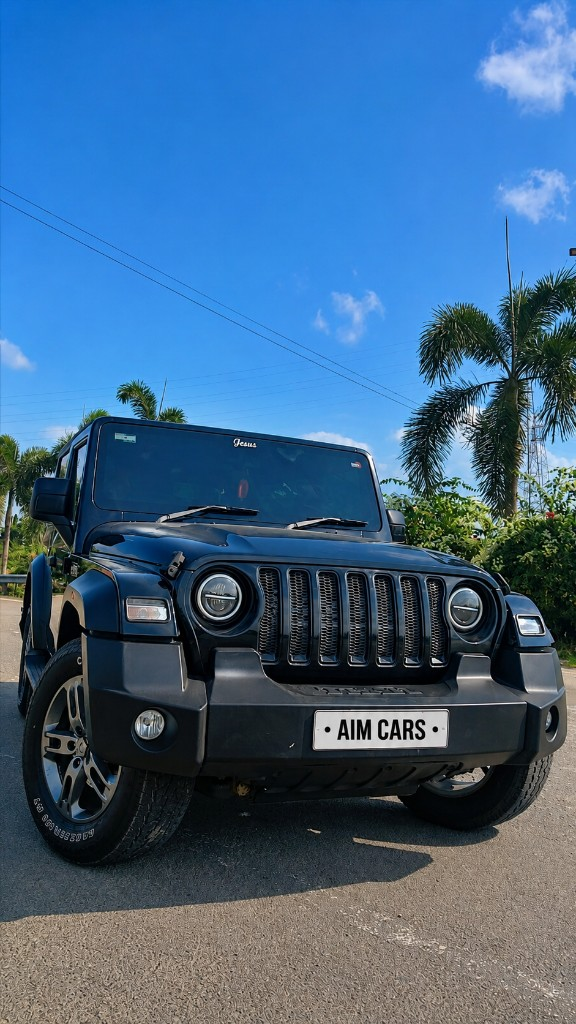
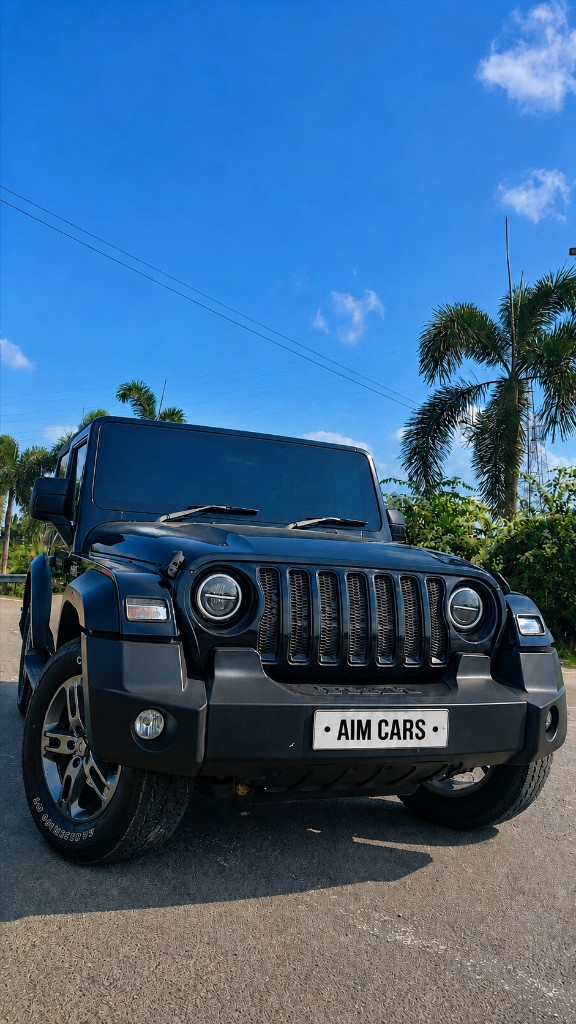
Updated website design and content

diff --git a/src/routes/index.tsx b/src/routes/index.tsx
@@ -75,11 +75,13 @@ type Category =
   | "Compact SUVs"
   | "MUVs"
   | "Adventure"
-  | "Premium";
+  | "Premium"
+  | "Luxury";
 
 type CarItem = {
   name: string;
   category: Category;
+  alsoCategories?: Category[];
   seats: number;
   transmission: string;
   fuelType: string;
@@ -96,15 +98,30 @@ const CARS: CarItem[] = [
   { name: "Maruti Suzuki Dzire Automatic", category: "Automatic", seats: 5, transmission: "Automatic", fuelType: "Petrol", price12: 2000, price24: 3000, extraHour: 200 },
   { name: "Hyundai Venue", category: "Compact SUVs", seats: 5, transmission: "Manual", fuelType: "Petrol", price12: 2000, price24: 3000, extraHour: 200 },
   { name: "Kia Syros", category: "Compact SUVs", seats: 5, transmission: "Manual", fuelType: "Petrol", price12: 2000, price24: 3000, extraHour: 200 },
-  { name: "Kia Sonet", category: "Compact SUVs", seats: 5, transmission: "Automatic Diesel", fuelType: "Diesel", price12: 2000, price24: 3000, extraHour: 250 },
+  { name: "Kia Sonet", category: "Compact SUVs", seats: 5, transmission: "Automatic & Sunroof", fuelType: "Diesel", price12: 2000, price24: 3000, extraHour: 250 },
   { name: "Maruti Suzuki Brezza", category: "Compact SUVs", seats: 5, transmission: "Manual", fuelType: "Petrol", price12: 2000, price24: 3000, extraHour: 200 },
   { name: "Maruti Suzuki Ertiga", category: "CNG", seats: 7, transmission: "Manual", fuelType: "CNG", price12: 2500, price24: 3500, extraHour: 200 },
   { name: "Toyota Innova", category: "MUVs", seats: 7, transmission: "Manual", fuelType: "Diesel", price12: 2500, price24: 3500, extraHour: 200 },
-  { name: "Mahindra Thar", category: "Adventure", seats: 4, transmission: "Manual 4x4", fuelType: "Diesel", price12: 3500, price24: 4500, extraHour: 200 },
+  { name: "Mahindra Thar", category: "Adventure", seats: 4, transmission: "Manual 4x2", fuelType: "Diesel", price12: 3500, price24: 4500, extraHour: 200 },
   { name: "Toyota Innova Crysta", category: "Premium", seats: 7, transmission: "Manual", fuelType: "Diesel", price12: 3500, price24: 4500, extraHour: 200 },
+  {
+    name: "Mahindra XUV 7XO - Hitech Luxury",
+    category: "Premium",
+    alsoCategories: ["Luxury"],
+    seats: 7,
+    transmission: "Manual",
+    fuelType: "Diesel",
+    price12: 3499,
+    price24: 5000,
+    extraHour: 500,
+  },
 ];
 
-const FILTERS = ["All", "Hatchbacks", "Sedans", "Automatic", "CNG", "Compact SUVs", "MUVs", "Adventure", "Premium"] as const;
+const FILTERS = ["All", "Hatchbacks", "Sedans", "Automatic", "CNG", "Compact SUVs", "MUVs", "Adventure", "Premium", "Luxury"] as const;
+
+function carMatchesFilter(car: CarItem, filter: (typeof FILTERS)[number]) {
+  return car.category === filter || car.alsoCategories?.includes(filter as Category);
+}
 
 // Highlight tags for cars (matches substrings of `car.name`)
 const carHighlights: Record<string, string> = {
@@ -153,7 +170,7 @@ function HomePage() {
           c.transmission.toLowerCase().includes("automatic"),
       );
     }
-    return CARS.filter((c) => c.category === filter);
+    return CARS.filter((c) => carMatchesFilter(c, filter));
   }, [filter]);
 
   return (
@@ -168,7 +185,7 @@ function HomePage() {
             <div className="leading-none min-w-0 flex flex-col items-start">
               <div className="w-full text-left font-bold text-navy text-base sm:text-xl lg:text-2xl tracking-tight whitespace-nowrap">AIM Car Travels</div>
               <div className="w-full text-left text-[10px] sm:text-xs lg:text-sm font-semibold tracking-[0.22em] text-amber-500 whitespace-nowrap">
-                PREMIUM RENTALS
+                PREMIUM SELF DRIVE CARS
               </div>
               <div className="w-full text-center text-[10px] sm:text-xs lg:text-sm font-semibold tracking-[0.22em] text-amber-500 whitespace-nowrap">
                 &
@@ -292,7 +309,7 @@ function HomePage() {
           <div className="absolute -bottom-10 left-0 h-40 w-40 rounded-full bg-accent blur-3xl opacity-40" />
         </div>
         <div className="mx-auto max-w-7xl px-4 sm:px-6 lg:px-8">
-          <div className="mx-auto max-w-5xl text-center">
+          <div className="mx-auto max-w-6xl text-center mb-8 sm:mb-10">
             <h2 className="font-serif font-bold tracking-tight leading-[0.92] text-3xl sm:text-4xl lg:text-6xl text-navy">
               <span className="block">Drive Your Own Story</span>
               <span className="block mt-3">
@@ -300,8 +317,59 @@ function HomePage() {
               </span>
             </h2>
             <p className="mx-auto mt-8 text-lg sm:text-xl lg:text-2xl text-muted-foreground leading-relaxed max-w-4xl">
-              Premium self-drive car rentals with 100% transparent pricing. Lock down your favorite drive from our elite 13-car collection with a 20% secure advance. No hidden surprises.
+              Premium self-drive car rentals with 100% transparent pricing. Lock down your favorite drive from our elite 14-car collection with a 20% secure advance. No hidden surprises.
             </p>
+          </div>
+
+          <div className="text-center mb-6 sm:mb-8">
+            <div className="text-sm sm:text-base font-extrabold tracking-[0.22em] text-navy mb-3">FAST BOOKING VERIFICATION</div>
+          </div>
+
+          <div className="grid gap-5 lg:grid-cols-3">
+            <div className="rounded-[28px] border border-[#f3df8c] bg-white/90 shadow-premium p-6 md:p-7 backdrop-blur-sm">
+              <div className="flex items-center gap-4 mb-5">
+                <div className="h-12 w-12 rounded-2xl bg-[#fff6d8] grid place-items-center text-xl font-bold text-[#c28f00]">1</div>
+                <div>
+                  <div className="text-xs font-bold tracking-[0.18em] text-gold">STEP 1</div>
+                  <h3 className="text-xl font-bold text-navy">Elite eligibility checklist</h3>
+                </div>
+              </div>
+              <div className="space-y-3 text-sm md:text-base text-muted-foreground leading-relaxed text-left">
+                <p>• Min age <strong className="font-bold text-black">25+</strong></p>
+                <p>• <strong className="font-bold text-black">3+ years</strong> of active LMV licence</p>
+                <p>• <strong className="font-bold text-black">Aadhar card</strong></p>
+                <p>• Two wheeler ( under 5yrs old ) with RC / min <strong className="font-bold text-black">20,000 security deposit</strong></p>
+              </div>
+            </div>
+
+            <div className="rounded-[28px] border border-[#f3df8c] bg-white/90 shadow-premium p-6 md:p-7 backdrop-blur-sm">
+              <div className="flex items-center gap-4 mb-5">
+                <div className="h-12 w-12 rounded-2xl bg-[#fff6d8] grid place-items-center text-xl font-bold text-[#c28f00]">2</div>
+                <div>
+                  <div className="text-xs font-bold tracking-[0.18em] text-gold">STEP 2</div>
+                  <h3 className="text-xl font-bold text-navy">Reserve your ride in the website theme</h3>
+                </div>
+              </div>
+              <div className="space-y-3 text-sm md:text-base text-muted-foreground leading-relaxed text-left">
+                <p>• Choose from our <strong className="font-bold text-black">14-car collection</strong></p>
+                <p>• Pay <strong className="font-bold text-black">20% secure advance</strong> to lock the booking</p>
+                <p>• Enjoy transparent pricing with no hidden surprises</p>
+              </div>
+            </div>
+
+            <div className="rounded-[28px] border border-[#f3df8c] bg-white/90 shadow-premium p-6 md:p-7 backdrop-blur-sm">
+              <div className="flex items-center gap-4 mb-5">
+                <div className="h-12 w-12 rounded-2xl bg-[#fff6d8] grid place-items-center text-xl font-bold text-[#c28f00]">3</div>
+                <div>
+                  <div className="text-xs font-bold tracking-[0.18em] text-gold">STEP 3</div>
+                  <h3 className="text-xl font-bold text-navy">Secure delivery handover</h3>
+                </div>
+              </div>
+              <div className="space-y-3 text-sm md:text-base text-muted-foreground leading-relaxed text-left">
+                <p>• Pay remaining <strong className="font-bold text-black">80% rent at the time of car pickup</strong></p>
+                <p>• <strong className="font-bold text-black">Insurance claims are not applicable on any damages / accidental conditions</strong></p>
+              </div>
+            </div>
           </div>
         </div>
       </section>
@@ -313,7 +381,7 @@ function HomePage() {
         <div className="mx-auto max-w-7xl px-4 sm:px-6 lg:px-8">
           <div className="flex flex-col md:flex-row md:items-end md:justify-between gap-6 mb-10">
             <div>
-              <div className="text-xs font-bold tracking-[0.2em] text-gold mb-3">13 CARS AVAILABLE</div>
+              <div className="text-xs font-bold tracking-[0.2em] text-gold mb-3">{CARS.length} CARS AVAILABLE</div>
               <h2 className="text-4xl sm:text-5xl font-bold tracking-tight text-navy">Choose your ride</h2>
             </div>
           </div>
@@ -359,7 +427,7 @@ function HomePage() {
                     </div>
                   )}
                   <span className="absolute top-4 left-4 px-3 py-1.5 rounded-full bg-navy text-white text-[10px] font-bold tracking-wider">
-                    {car.category.toUpperCase()}
+                    {[car.category, ...(car.alsoCategories ?? [])].join(" · ").toUpperCase()}
                   </span>
                 </div>
                 <div className="p-6 flex flex-col gap-4 flex-1">
@@ -439,7 +507,7 @@ function HomePage() {
             {[
               { value: "2600", label: "Completed Orders" },
               { value: "2500", label: "Happy Customers" },
-              { value: "13", label: "Vehicles" },
+              { value: "14", label: "Vehicles" },
               { value: "10", label: "Years Experience" },
             ].map((stat) => (
               <div
@@ -601,7 +669,7 @@ function HomePage() {
                       <div className="space-y-2 ml-2">
                         <p>○ Aadhaar Card</p>
                         <p>○ Car Driving License</p>
-                        <p>○ Two-Wheeler with RC</p>
+                        <p>○ Two wheeler with rc / ₹ 20000 as security deposit</p>
                       </div>
                     </div>
                   </div>
@@ -860,10 +928,10 @@ function HomePage() {
                     </div>
                     <div>
                       <div className="font-bold text-navy">AIM Car Travels</div>
-                      <div className="text-[10px] font-semibold tracking-[0.18em] text-amber-500">PREMIUM RENTALS</div>
+                      <div className="text-[10px] font-semibold tracking-[0.18em] text-amber-500">PREMIUM SELF DRIVE CARS & TAXI SERVICES</div>
                     </div>
                   </div>
-                  <p className="text-sm text-muted-foreground">Premium self-drive car rentals and taxi services across Vijayawada. Clean cars, honest pricing.</p>
+                  <p className="text-sm text-muted-foreground">Premium self drive cars and taxi services across Vijayawada. Clean cars, honest pricing.</p>
                 </div>
                 <div>
                   <div className="font-bold text-navy mb-4 text-sm">Quick links</div>
@@ -902,6 +970,25 @@ function HomePage() {
           </div>
           <div className="border-t border-border mt-10 pt-6 text-center text-xs text-muted-foreground">
             © {new Date().getFullYear()} AIM Car Travels. All rights reserved.
+            <p className="text-xs text-gray-400 mt-2">
+              Website by{" "}
+              <a
+                href="https://uniscaledigitals.com"
+                target="_blank"
+                rel="noopener noreferrer"
+                className="font-medium hover:text-[#0B1B4D] transition-colors duration-300"
+              >
+                Uniscale Digital
+              </a>
+            </p>
+            <p className="text-xs text-gray-400 mt-1">
+              <a
+                href="mailto:[email redacted]"
+                className="hover:text-[#0B1B4D] transition-colors duration-300"
+              >
+                [email redacted]
+              </a>
+            </p>
           </div>
         </div>
       </footer>
@@ -1108,7 +1195,14 @@ function BookingModal({ car, onClose }: { car: CarItem; onClose: () => void }) {
   }, []);
 
   const extraRate = (() => {
-    if (car.category === "Premium" || car.category === "Adventure") return 500;
+    if (
+      car.category === "Premium" ||
+      car.category === "Luxury" ||
+      car.category === "Adventure" ||
+      car.alsoCategories?.includes("Premium") ||
+      car.alsoCategories?.includes("Luxury")
+    )
+      return 500;
     if (car.category === "Compact SUVs" || car.category === "MUVs") return 250;
     return car.extraHour;
   })();

diff --git a/src/data/carImages.ts b/src/data/carImages.ts
@@ -38,6 +38,8 @@ import tharInterior2 from "@/assets/cars/mahindra-thar/interior-2.png";
 import crystaFront from "@/assets/cars/toyota-innova-crysta/front.png";
 import crystaBack from "@/assets/cars/toyota-innova-crysta/back.png";
 import crystaSide from "@/assets/cars/toyota-innova-crysta/side.png";
+import xuv7xoFront from "@/assets/cars/mahindra-xuv-7xo/front.png";
+import xuv7xoSide from "@/assets/cars/mahindra-xuv-7xo/side.png";
 
 /** Car name → gallery images (first image = card cover). */
 export const CAR_IMAGES: Record<string, string[]> = {
@@ -60,6 +62,7 @@ export const CAR_IMAGES: Record<string, string[]> = {
   "Toyota Innova": [innovaFront, innovaBack],
   "Mahindra Thar": [tharFront, tharBack, tharSide, tharInterior1, tharInterior2],
   "Toyota Innova Crysta": [crystaFront, crystaBack, crystaSide],
+  "Mahindra XUV 7XO - Hitech Luxury": [xuv7xoFront, xuv7xoSide],
 };
 
 export function getCarImages(carName: string): string[] {